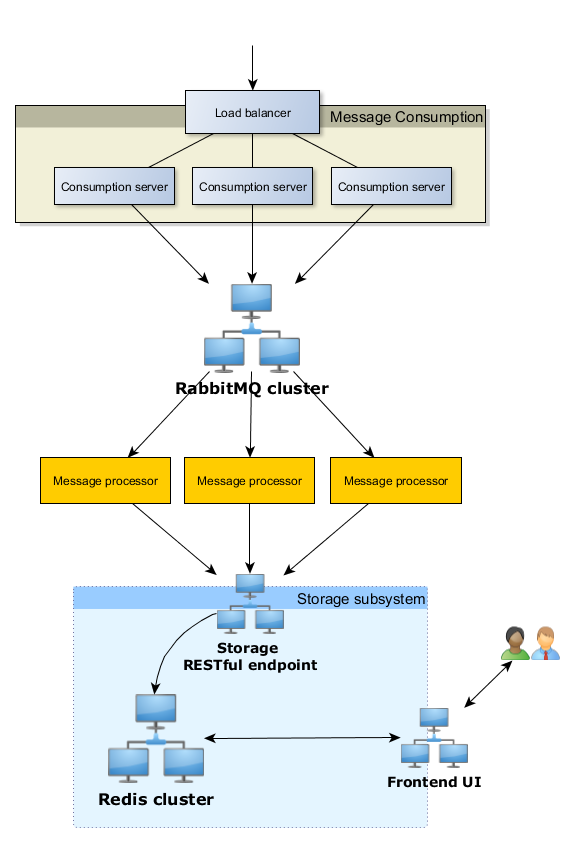
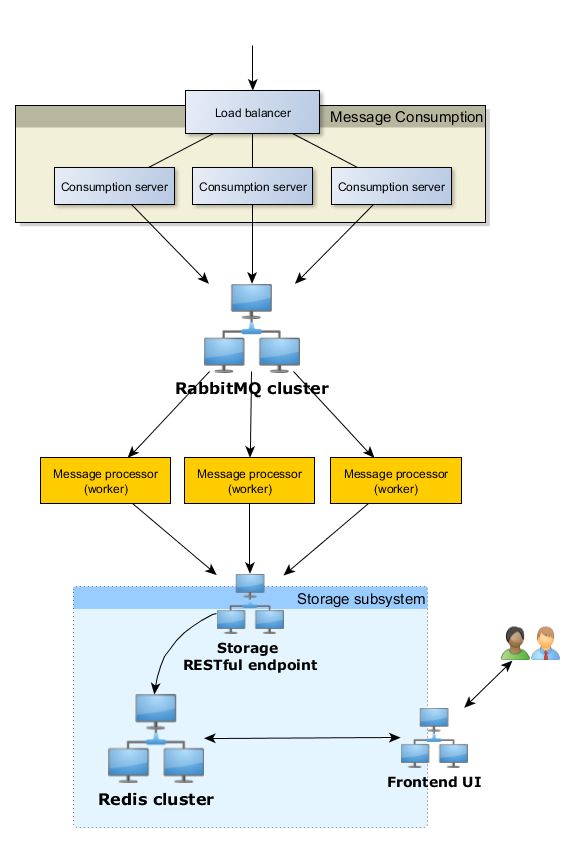
Fix mistakes in the documentation

Changed region(s): [[0.5913, 0.5552, 0.7983, 0.586], [0.3252, 0.5552, 0.5322, 0.586], [0.0887, 0.5552, 0.2661, 0.586]]

diff --git a/README.md b/README.md
@@ -2,15 +2,23 @@
 
 Welcome to the Market Trade Processor project!
 
-It is a test project where we are going to build distributed system which is able to process a huge number of messages in real time.
+It is a test project where I am going to build a distributed system which is able to process a huge number of messages in real time.
+
+## Subsystems
+
+* [Frontend](frontend), [Frontend demo](http://abelyaev.net/)
+* [Storage RESTful endpoint](storage)
+* [Consumer endpoint](consumer)
+* [Worker](worker)
+* [Tests](tests)
 
 # Achievements
 
-Each consumer node is able to receive up to **4,2k messages per a second** in average. The overall processing time is about 1.5 minutes for 100k messages.
+Each consumer node is able to receive up to **4,2k messages per a second** in average. The overall processing time is about 1.5 minutes for 100k messages (including aggregation and delivering to the frontend UI).
 
-A single consumer server can handle **360k concurent connections**. *Actually I have reached my limits of 20 AWS EC2 instances and was not able to create more requests.*
+A single consumer server can handle **1 million concurent connections**. *Actually I am going to increase my limits of 50 AWS EC2 and try to create 10 millions(!) concurrent connections.*
 
-You can find more additional details in the [tests subproject](tests).
+You can find more additional details in the [tests subproject](tests#results).
 
 # An idea behind
 
@@ -38,14 +46,6 @@ The system has to process these messages and display results in UI with a realti
 ## Overall architecture
 
 ![Market Trade Processor architecture](https://raw.githubusercontent.com/abguy/trade-processor/master/images/architecture.png)
-
-## Subsystems
-
-* [Frontend](frontend), [Frontend demo](http://abelyaev.net/)
-* [Storage RESTful endpoint](storage)
-* [Consumer endpoint](consumer)
-* [Worker](worker)
-* [Tests](tests)
 
 ## How to tune Linux server
 
@@ -114,6 +114,16 @@ sysctl -p
 2. Unfortunately I have no valid (not self signed) SSL certificates. Thats why the "Message Consumption" entry point is not secured as well as the "Frontend UI" entry point.
 
 3. All other interactions between components have to be secured with SSL.
+
+## Other notes
+
+1. I think that the system should use [HTTP2](http://en.wikipedia.org/wiki/HTTP/2) for better performance, but there are too few cliens support it yet.
+
+2. You should use something like [HAProxy](http://www.haproxy.org/) before consumer nodes for production. Your system has to be robustness in case of hardware failures.
+
+3. A production ready system must have a failure detector in order to restore functionality quickly.
+
+4. My installation is configured with 1 minute delays before messages will be delivered to the frontend UI. This value could be changed easily depending from the expected loading. Moreover this value could be changed dinamically.
 
 # Contacts
 

diff --git a/worker/README.md b/worker/README.md
@@ -8,7 +8,7 @@ This subproject is a part of [Market Trade Processor project](https://github.com
 
 Perhaps it is not the best solution but it is good enough for [our purpose](https://github.com/abguy/trade-processor). 
 Modern PHP has an amazing number of different frameworks, libraries, components and so on.
-PHP programs could be easily covered by tests.
+PHP programs also could be easily covered by tests.
 
 I've implemented the worker with validation, colorized console output, with ability to configure output verbosity level, etc.
 The result program is able to process **30k messages for less than a minute**.  It needs  **~7 Mb of memory** for execution.      
@@ -69,7 +69,7 @@ Once apps are started you can list and manage all running processes easily:
 pm2 list
 ```
 
-![Process listing](https://github.com/unitech/pm2/raw/master/pres/pm2-list.png)
+![Process listing](https://raw.githubusercontent.com/unitech/pm2/master/pres/pm2-list.png)
 
 Monitoring all processes launched:
 
@@ -77,7 +77,7 @@ Monitoring all processes launched:
 pm2 monit
 ```
 
-![Monit](https://github.com/unitech/pm2/raw/master/pres/pm2-monit.png)
+![Monit](https://raw.githubusercontent.com/unitech/pm2/master/pres/pm2-monit.png)
 
 
 # Advanced usage
@@ -98,7 +98,6 @@ List of additional options:
 
 List of supported commands:
 
-    php worker.php
     php worker.php list
     php worker.php help
 
@@ -112,7 +111,7 @@ You could specify additional levels of verbosity:
 
 #How to test
 
-Before executing of unit tests please install development dependencies as it was described above.
+Before executing of unit tests please install development dependencies as it was described [above](#how-to-setup).
 After that you could run tests by the following command:
 
     vendor/bin/phpunit

diff --git a/consumer/README.md b/consumer/README.md
@@ -32,15 +32,20 @@ Before start of the application please:
 ## How to configure RabbitMQ server
 
 The most of necessary information you could find in the [RabbitMQ documentation](http://www.rabbitmq.com/install-rpm.html).
-There are some other tips below I used on my installation.
+There are some tips below I used on my installation.
 
 ### RabbitMQ user permissions
 
-    rabbitmqctl add_user consumer password
-    rabbitmqctl delete_user guest
-    rabbitmqctl add_vhost /consumer
-    rabbitmqctl set_permissions -p /consumer consumer "^messages" ".*" ".*"
+```bash
+rabbitmqctl add_user consumer password4consumer
+rabbitmqctl delete_user guest
+rabbitmqctl add_vhost /consumer
+rabbitmqctl set_permissions -p /consumer consumer "^messages" ".*" ".*"
 
+rabbitmqctl add_user worker password4worker
+rabbitmqctl set_permissions -p /consumer worker "^messages" "" ".*"
+```
+    
 ### RabbitMQ config
 
 ~~~

diff --git a/frontend/README.md b/frontend/README.md
@@ -16,7 +16,7 @@ Before start of the application please check "config/config.json", then execute:
 
 * You shouldn't use Node.js server directly in production. Please use something like [Nginx](http://nginx.org/), [PM2](https://github.com/Unitech/pm2) or [forever project](https://github.com/foreverjs/forever) before lunch.
 
-* Flow graph doesn't work in IE properly as well as the source libraries examples. Please check the code for more details. 
+* Flow graph doesn't work in IE properly as well as the source libraries examples. Please check the code source for more details.
 
 # How to test
 

diff --git a/storage/README.md b/storage/README.md
@@ -6,7 +6,7 @@ This subproject is a part of [Market Trade Processor project](https://github.com
 
 # How to setup
 
-**Note**. The instruction below is suitable for CentOS only. Please check Nginx and pm2 documentation for installation to other OSes.
+**Note**. The instruction below is suitable for CentOS only. Please check [Nginx](http://nginx.org/) and [PM2](https://github.com/Unitech/pm2) documentation for installation to other OSes.
 
 Before start of the application please check "config/config.json", then execute:
 
